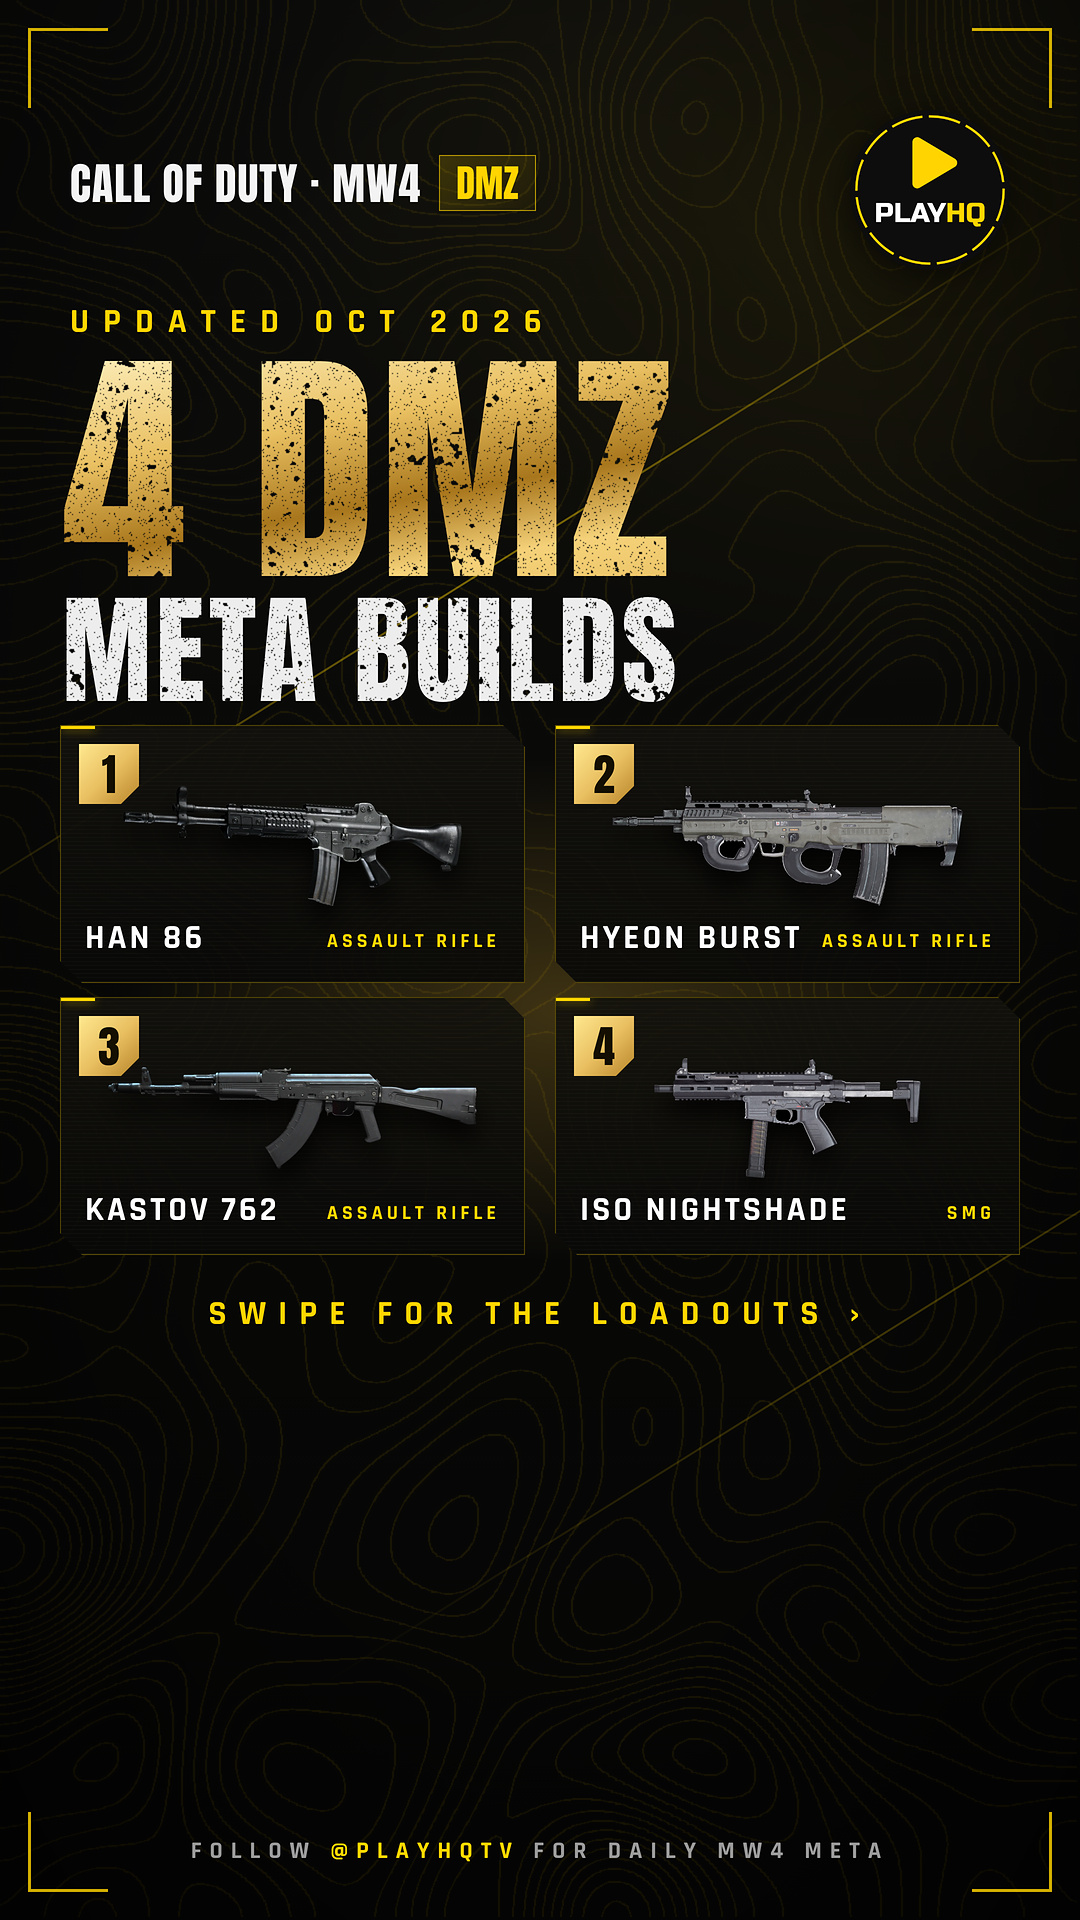
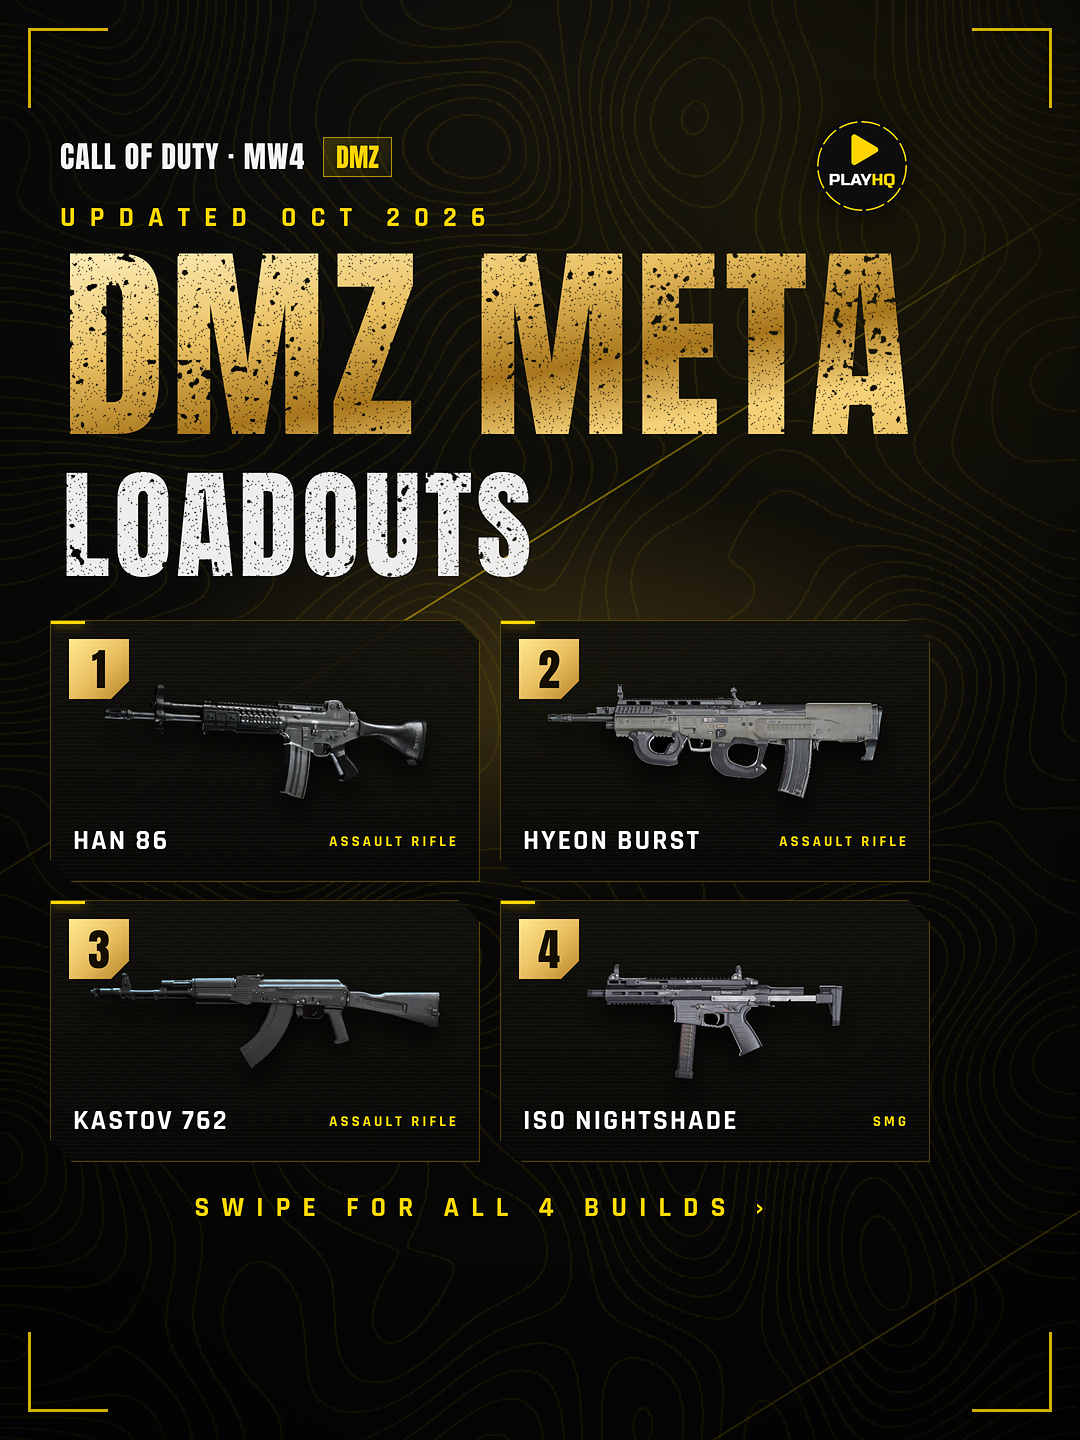
Carousel template: 3:4 (1080x1440) TikTok-safe layout + UI overlay QA; reworded DMZ carousel
Claude-Session: https://claude.ai/code/session_01LXyKCaXtAVVtiefghrjJL7

diff --git a/templates/meta-carousel/render.py b/templates/meta-carousel/render.py
@@ -1,6 +1,6 @@
 """PlayHQ META carousel generator (design v3 "digital HUD", approved 29.10.2026).
 Usage: python3 render.py data/<file>.json [out_dir]
-Slides: cover, one per weapon, cta. 1080x1920 JPG. All components are free (OFL fonts, own textures/icons, ISNet cutouts)."""
+Slides: cover, one per weapon, cta. 1080x1440 (3:4) JPG. All components are free (OFL fonts, own textures/icons, ISNet cutouts)."""
 import json, os, sys, html, threading, functools, http.server, socketserver
 
 HERE = os.path.dirname(os.path.abspath(__file__))
@@ -13,16 +13,16 @@ CSS = """
 @font-face{font-family:Raj;src:url(/assets/fonts/Rajdhani-Medium.ttf);font-weight:500}
 *{margin:0;padding:0;box-sizing:border-box}
 :root{--y:#ffd400;--g1:#fff3c4;--g2:#e9c062;--g3:#a8761c}
-body{width:1080px;height:1920px;overflow:hidden;background:#070707;font-family:Raj;color:#fff;position:relative}
-.bg{position:absolute;inset:0;background:radial-gradient(ellipse 620px 360px at 560px 1010px,rgba(255,200,60,.22),transparent 70%),radial-gradient(ellipse 900px 700px at 900px 200px,rgba(255,212,0,.07),transparent 70%),linear-gradient(180deg,#0d0d0c 0%,#080807 55%,#050505 100%)}
+body{width:1080px;height:1440px;overflow:hidden;background:#070707;font-family:Raj;color:#fff;position:relative}
+.bg{position:absolute;inset:0;background:radial-gradient(ellipse 620px 300px at 560px 690px,rgba(255,200,60,.22),transparent 70%),radial-gradient(ellipse 900px 700px at 900px 200px,rgba(255,212,0,.07),transparent 70%),linear-gradient(180deg,#0d0d0c 0%,#080807 55%,#050505 100%)}
 .topo{position:absolute;inset:0;background:url(/assets/topo.png)}
 .streak{position:absolute;width:1600px;height:2px;background:linear-gradient(90deg,transparent,rgba(255,212,0,.45),transparent);transform:rotate(-32deg)}
 .vign{position:absolute;inset:0;background:radial-gradient(ellipse at 50% 45%,transparent 50%,rgba(0,0,0,.6) 100%)}
 .corner{position:absolute;width:80px;height:80px;border-color:rgba(255,212,0,.8);border-style:solid}
-.top{position:absolute;left:70px;top:150px;display:flex;align-items:center;gap:18px}
-.cod{font-family:Anton;font-size:44px;letter-spacing:1px;color:#f3f3f3}
-.dmz{font-family:Anton;font-size:38px;color:var(--y);padding:0 16px;line-height:54px;border:1px solid rgba(255,212,0,.6);background:linear-gradient(135deg,rgba(255,212,0,.18),rgba(255,212,0,.04))}
-.logo{position:absolute;right:70px;top:110px;width:160px;filter:drop-shadow(0 6px 18px rgba(0,0,0,.6))}
+.top{position:absolute;left:60px;top:134px;display:flex;align-items:center;gap:18px}
+.cod{font-family:Anton;font-size:30px;letter-spacing:1px;color:#f3f3f3}
+.dmz{font-family:Anton;font-size:26px;color:var(--y);padding:0 12px;line-height:38px;border:1px solid rgba(255,212,0,.6);background:linear-gradient(135deg,rgba(255,212,0,.18),rgba(255,212,0,.04))}
+.logo{position:absolute;right:170px;top:118px;width:96px;filter:drop-shadow(0 6px 18px rgba(0,0,0,.6))}
 .gr{display:inline-block;-webkit-mask-image:url(/assets/grunge.png);-webkit-mask-size:1400px 700px}
 .w{color:#ededed}
 .gold{background:linear-gradient(170deg,var(--g1) 0%,var(--g2) 35%,var(--g3) 60%,#f5d27a 80%,var(--g2) 100%);-webkit-background-clip:text;color:transparent;-webkit-mask-position:400px 120px}
@@ -30,50 +30,50 @@ body{width:1080px;height:1920px;overflow:hidden;background:#070707;font-family:R
 .hud{background:linear-gradient(180deg,rgba(18,17,12,.92),rgba(8,8,7,.92));border:1px solid rgba(255,212,0,.28);position:relative;clip-path:polygon(0 0,calc(100% - 22px) 0,100% 22px,100% 100%,22px 100%,0 calc(100% - 22px))}
 .hud::before{content:"";position:absolute;inset:0;background:repeating-linear-gradient(0deg,rgba(255,255,255,.025) 0 1px,transparent 1px 4px);pointer-events:none}
 .hud::after{content:"";position:absolute;left:0;top:0;width:34px;height:3px;background:var(--y);box-shadow:0 0 10px rgba(255,212,0,.7)}
-.foot{position:absolute;left:0;right:0;top:1836px;text-align:center;font-weight:700;font-size:24px;letter-spacing:8px;color:#9a9a9a}
+.foot{position:absolute;left:0;right:0;top:1395px;text-align:center;font-weight:700;font-size:24px;letter-spacing:8px;color:#9a9a9a}
 .foot b{color:var(--y)}
 .sub{position:absolute;left:70px;font-weight:700;font-size:54px;letter-spacing:15px;color:#f2f2f2;white-space:nowrap}
 .cls{position:absolute;left:70px;font-size:38px;font-weight:600;letter-spacing:2px;display:flex;align-items:center;gap:14px;color:#cfcfcf}
 .cls i{display:block;width:44px;height:5px;background:var(--y)}
 .cls b{color:var(--y);font-weight:700}
-.rank{position:absolute;right:70px;top:640px;text-align:right}
+.rank{position:absolute;right:150px;top:400px;text-align:right}
 .rank small{display:block;font-size:24px;letter-spacing:6px;color:#bdbdbd;font-weight:700}
-.rank strong{font-family:Anton;font-size:96px;line-height:1;background:linear-gradient(170deg,var(--g1),var(--g2) 45%,var(--g3));-webkit-background-clip:text;color:transparent}
+.rank strong{font-family:Anton;font-size:70px;line-height:1;background:linear-gradient(170deg,var(--g1),var(--g2) 45%,var(--g3));-webkit-background-clip:text;color:transparent}
 .gunbox{position:absolute;left:30px;width:1020px;display:grid;place-items:center}
 .gun{max-width:1000px;transform:rotate(-4deg);filter:drop-shadow(0 40px 30px rgba(0,0,0,.85)) drop-shadow(0 0 2px rgba(255,220,140,.35))}
 .floor{position:absolute;left:190px;width:700px;height:40px;border-radius:50%;background:radial-gradient(ellipse,rgba(255,212,0,.35),transparent 70%);filter:blur(6px)}
 .line{position:absolute;left:150px;width:780px;height:2px;background:linear-gradient(90deg,transparent,rgba(255,212,0,.7),transparent)}
-.hdr{position:absolute;left:60px;right:60px;top:1288px;height:84px;display:flex;align-items:center;padding:0 30px}
-.hdr span{font-weight:700;font-size:36px;letter-spacing:12px}
+.hdr{position:absolute;left:50px;right:145px;top:862px;height:64px;display:flex;align-items:center;padding:0 30px}
+.hdr span{font-weight:700;font-size:30px;letter-spacing:10px}
 .ticks{margin-left:auto;display:flex;align-items:center;gap:18px}
 .ticks i{display:block;width:120px;height:10px;background:repeating-linear-gradient(90deg,rgba(255,212,0,.6) 0 2px,transparent 2px 10px)}
 .ticks em{font-style:normal;font-size:23px;letter-spacing:6px;color:var(--y);font-weight:700}
-.grid{position:absolute;left:60px;right:60px;top:1392px;display:grid;grid-template-columns:1fr 1fr;gap:16px}
-.t{height:124px;display:flex;align-items:center;gap:18px;padding:0 16px}
-.ic{width:156px;height:94px;flex:none;position:relative;display:grid;place-items:center;background:linear-gradient(rgba(255,212,0,.06) 1px,transparent 1px) 0 0/12px 12px,linear-gradient(90deg,rgba(255,212,0,.06) 1px,transparent 1px) 0 0/12px 12px,radial-gradient(ellipse at 50% 50%,rgba(255,212,0,.10),rgba(0,0,0,0) 70%);border:1px solid rgba(255,212,0,.18)}
+.grid{position:absolute;left:50px;right:145px;top:938px;display:grid;grid-template-columns:1fr 1fr;gap:12px}
+.t{height:100px;display:flex;align-items:center;gap:14px;padding:0 12px}
+.ic{width:118px;height:74px;flex:none;position:relative;display:grid;place-items:center;background:linear-gradient(rgba(255,212,0,.06) 1px,transparent 1px) 0 0/12px 12px,linear-gradient(90deg,rgba(255,212,0,.06) 1px,transparent 1px) 0 0/12px 12px,radial-gradient(ellipse at 50% 50%,rgba(255,212,0,.10),rgba(0,0,0,0) 70%);border:1px solid rgba(255,212,0,.18)}
 .ic::before,.ic::after{content:"";position:absolute;width:12px;height:12px;border-color:var(--y);border-style:solid}
 .ic::before{left:-1px;top:-1px;border-width:2px 0 0 2px}.ic::after{right:-1px;bottom:-1px;border-width:0 2px 2px 0}
-.ic img{width:146px}
-.num{position:absolute;right:16px;top:10px;font-size:18px;font-weight:700;letter-spacing:3px;color:rgba(255,212,0,.45)}
-.tx b{display:block;white-space:nowrap;font-weight:700;font-size:32px;color:#fff;letter-spacing:1px;line-height:1.05}
-.tx small{display:block;font-weight:700;font-size:21px;color:var(--y);letter-spacing:5px;margin-top:6px}
+.ic img{width:110px}
+.num{position:absolute;right:14px;top:8px;font-size:15px;font-weight:700;letter-spacing:3px;color:rgba(255,212,0,.45)}
+.tx b{display:block;white-space:nowrap;font-weight:700;font-size:27px;color:#fff;letter-spacing:1px;line-height:1.05}
+.tx small{display:block;font-weight:700;font-size:17px;color:var(--y);letter-spacing:4px;margin-top:5px}
 .save{background:linear-gradient(135deg,#ffe88f,#e9c062 50%,#b8862a);border:none}
 .save::after{background:#111;box-shadow:none}
 .save .tx{padding-left:14px}
-.save .tx b{color:#140f00;font-family:Anton;font-size:46px;font-weight:400;letter-spacing:1px}
-.save .tx small{color:#3a2a00;letter-spacing:5px;font-size:21px;margin:0 0 2px}
+.save .tx b{color:#140f00;font-family:Anton;font-size:38px;font-weight:400;letter-spacing:1px}
+.save .tx small{color:#3a2a00;letter-spacing:4px;font-size:17px;margin:0 0 2px}
 .kicker{position:absolute;left:70px;font-weight:700;font-size:34px;letter-spacing:14px;color:var(--y)}
-.card{position:absolute;width:465px;height:258px}
+.card{position:absolute;width:430px;height:262px}
 .card .badge{position:absolute;left:18px;top:18px;font-family:Anton;font-size:44px;line-height:60px;width:60px;text-align:center;color:#140f00;background:linear-gradient(135deg,#ffe88f,#e9c062 50%,#b8862a);clip-path:polygon(0 0,100% 0,100% 70%,70% 100%,0 100%)}
 .card .cimg{position:absolute;left:20px;right:20px;top:56px;height:128px;display:grid;place-items:center}
-.card .cimg img{max-width:370px;max-height:120px;filter:drop-shadow(0 16px 12px rgba(0,0,0,.8))}
-.card .nm{position:absolute;left:24px;bottom:22px;font-weight:700;font-size:34px;letter-spacing:3px}
-.card .cl{position:absolute;right:24px;bottom:28px;font-weight:700;font-size:20px;letter-spacing:4px;color:var(--y)}
+.card .cimg img{max-width:350px;max-height:115px;filter:drop-shadow(0 16px 12px rgba(0,0,0,.8))}
+.card .nm{position:absolute;left:22px;bottom:22px;font-weight:700;font-size:28px;letter-spacing:2px}
+.card .cl{position:absolute;right:20px;bottom:30px;font-weight:700;font-size:15px;letter-spacing:3px;color:var(--y)}
 .swipe{position:absolute;left:0;right:0;text-align:center;font-weight:700;font-size:34px;letter-spacing:12px;color:var(--y)}
-.row{position:absolute;left:60px;right:60px;height:118px;display:flex;align-items:center;gap:24px;padding:0 26px}
+.row{position:absolute;left:50px;right:150px;height:96px;display:flex;align-items:center;gap:24px;padding:0 26px}
 .row .n{font-family:Anton;font-size:56px;width:70px;text-align:center;background:linear-gradient(170deg,var(--g1),var(--g2) 45%,var(--g3));-webkit-background-clip:text;color:transparent}
-.row img{width:230px;max-height:96px;object-fit:contain;filter:drop-shadow(0 10px 8px rgba(0,0,0,.8))}
-.row b{font-weight:700;font-size:40px;letter-spacing:3px}
+.row img{width:180px;max-height:76px;object-fit:contain;filter:drop-shadow(0 10px 8px rgba(0,0,0,.8))}
+.row b{font-weight:700;font-size:34px;letter-spacing:3px}
 .row small{margin-left:auto;font-weight:700;font-size:22px;letter-spacing:5px;color:var(--y)}
 """
 
@@ -108,53 +108,53 @@ def title_html(white, gold, top, size=250, max_w=950):
 def weapon_slide(w, d):
     tiles = ''.join(
         f'<div class="t hud"><span class="num">{i + 1:02d}</span><div class="ic"><img src="/assets/icons/{a["type"]}.svg"></div>'
-        + (f'<div class="tx"><b class="shrink" data-size="32" data-max="262">{E(a["name"])}</b>' if len(a["name"]) <= 16 else f'<div class="tx"><b style="font-size:27px;white-space:normal;max-width:236px;line-height:1.08">{E(a["name"])}</b>')
+        + (f'<div class="tx"><b class="shrink" data-size="27" data-max="226">{E(a["name"])}</b>' if len(a["name"]) <= 16 else f'<div class="tx"><b style="font-size:23px;white-space:normal;max-width:206px;line-height:1.08">{E(a["name"])}</b>')
         + f'<small>{E(a["label"])}</small></div></div>'
         for i, a in enumerate(w['attachments'][:5]))
     if w.get('apex'):
         tiles += (f'<div class="t hud save"><div class="ic" style="background:rgba(0,0,0,.18);border-color:rgba(0,0,0,.35)"><img src="/assets/icons/apex.svg" style="filter:brightness(.25)"></div>'
-                  f'<div class="tx" style="padding-left:0"><small>APEX</small><b class="shrink" data-size="44" data-max="250">{E(w["apex"])}</b></div></div>')
+                  f'<div class="tx" style="padding-left:0"><small>APEX</small><b class="shrink" data-size="36" data-max="220">{E(w["apex"])}</b></div></div>')
     else:
         tiles += '<div class="t hud save"><div class="tx"><small>DON\'T LOSE IT</small><b>SAVE THIS BUILD</b></div></div>'
     br = w.get('brightness', 1.18)
-    body = (title_html(w['title_white'], w['title_gold'], 300)
-            + f'<div class="fit sub" style="top:635px;left:70px;font-family:Raj;letter-spacing:15px" data-size="54" data-max="700">{E(w.get("tagline", "EXTRACTION READY"))}</div>'
-            + f'<div class="cls" style="top:712px"><i></i>{E(w["class"])} — <b>{E(w.get("class_note", "Meta Loadout"))}</b></div>'
+    body = (title_html(w['title_white'], w['title_gold'], 205, size=180, max_w=850)
+            + f'<div class="fit sub" style="top:415px;left:60px;font-family:Raj;letter-spacing:11px" data-size="40" data-max="700">{E(w.get("tagline", "EXTRACTION READY"))}</div>'
+            + f'<div class="cls" style="top:468px;left:60px;font-size:30px"><i></i>{E(w["class"])} — <b>{E(w.get("class_note", "Meta Loadout"))}</b></div>'
             + f'<div class="rank"><small>{E(d.get("rank_label", "META RANK"))}</small><strong>#{w["rank"]}</strong></div>'
-            + '<div class="floor" style="top:1205px"></div><div class="line" style="top:1222px"></div>'
-            + f'<div class="gunbox" style="top:800px;height:420px"><img class="gun" style="max-height:400px;filter:drop-shadow(0 40px 30px rgba(0,0,0,.85)) drop-shadow(0 0 2px rgba(255,220,140,.35)) brightness({br}) contrast(1.08)" src="/weapons/{w["image"]}"></div>'
-            + f'<div class="hdr hud"><span>ATTACHMENTS</span><div class="ticks"><i style="width:60px"></i><div style="text-align:right;line-height:1.1"><small style="display:block;font-size:17px;letter-spacing:5px;color:#bdbdbd;font-weight:700">BUILD CODE</small><em>{E(w.get("build_code", ""))}</em></div></div></div>'
+            + '<div class="floor" style="top:826px"></div><div class="line" style="top:843px"></div>'
+            + f'<div class="gunbox" style="top:520px;height:320px;width:900px"><img class="gun" style="max-height:290px;max-width:860px;filter:drop-shadow(0 40px 30px rgba(0,0,0,.85)) drop-shadow(0 0 2px rgba(255,220,140,.35)) brightness({br}) contrast(1.08)" src="/weapons/{w["image"]}"></div>'
+            + f'<div class="hdr hud"><span>ATTACHMENTS</span><div class="ticks"><i style="width:60px"></i><div style="text-align:right;line-height:1.1"><small style="display:block;font-size:14px;letter-spacing:4px;color:#bdbdbd;font-weight:700">BUILD CODE</small><em style="font-size:19px;letter-spacing:4px">{E(w.get("build_code", ""))}</em></div></div></div>'
             + f'<div class="grid">{tiles}</div>')
-    return page(body, d)
+    return page(body, {**d, 'footer': ''})
 
 
 def cover_slide(d):
     c = d['cover']
-    pos = [(60, 725), (555, 725), (60, 997), (555, 997)]
+    pos = [(50, 620), (500, 620), (50, 900), (500, 900)]
     cards = ''.join(
         f'<div class="card hud" style="left:{x}px;top:{y}px"><div class="badge">{w["rank"]}</div>'
         f'<div class="cimg"><img src="/weapons/{w["image"]}" style="filter:drop-shadow(0 16px 12px rgba(0,0,0,.8)) brightness({w.get("brightness", 1.18)})"></div>'
         f'<div class="nm">{E(w["short"])}</div><div class="cl">{E(w["class"].upper())}</div></div>'
         for (x, y), w in zip(pos, d['weapons']))
-    body = (f'<div class="kicker" style="top:300px">{E(c.get("kicker", "UPDATED"))}</div>'
-            + f'<div class="fit" style="top:345px" data-size="250" data-max="950"><span class="gr gold">{E(c["big"])}</span></div>'
-            + f'<div class="fit" style="top:590px" data-size="120" data-max="950"><span class="gr w">{E(c["small"])}</span></div>'
-            + cards + f'<div class="swipe" style="top:1292px">{E(c.get("swipe", "SWIPE FOR THE LOADOUTS ›"))}</div>')
-    return page(body, d)
+    body = (f'<div class="kicker" style="top:200px;left:60px;font-size:28px">{E(c.get("kicker", "UPDATED"))}</div>'
+            + f'<div class="fit" style="top:240px" data-size="210" data-max="860"><span class="gr gold">{E(c["big"])}</span></div>'
+            + f'<div class="fit" style="top:465px" data-size="120" data-max="860"><span class="gr w">{E(c["small"])}</span></div>'
+            + cards + f'<div class="swipe" style="top:1190px;font-size:28px;right:110px">{E(c.get("swipe", "SWIPE FOR THE LOADOUTS ›"))}</div>')
+    return page(body, {**d, 'footer': ''})
 
 
 def cta_slide(d):
     c = d['cta']
     rows = ''.join(
-        f'<div class="row hud" style="top:{860 + i * 134}px"><div class="n">{w["rank"]}</div><img src="/weapons/{w["image"]}" style="filter:drop-shadow(0 10px 8px rgba(0,0,0,.8)) brightness({w.get("brightness", 1.18)})">'
+        f'<div class="row hud" style="top:{575 + i * 110}px"><div class="n">{w["rank"]}</div><img src="/weapons/{w["image"]}" style="filter:drop-shadow(0 10px 8px rgba(0,0,0,.8)) brightness({w.get("brightness", 1.18)})">'
         f'<b>{E(w["short"])}</b><small>{E(w["class"].upper())}</small></div>' for i, w in enumerate(d['weapons']))
-    body = (f'<div class="fit" style="top:330px" data-size="180" data-max="950"><span class="gr w">{E(c["white"])}</span></div>'
-            + f'<div class="fit" style="top:530px" data-size="180" data-max="950"><span class="gr gold">{E(c["gold"])}</span></div>'
-            + f'<div class="kicker" style="top:760px;letter-spacing:10px;color:#d9d9d9">{E(c.get("sub", "DROP THE NUMBER IN THE COMMENTS"))}</div>'
+    body = (f'<div class="fit" style="top:205px" data-size="140" data-max="860"><span class="gr w">{E(c["white"])}</span></div>'
+            + f'<div class="fit" style="top:355px" data-size="140" data-max="860"><span class="gr gold">{E(c["gold"])}</span></div>'
+            + f'<div class="kicker" style="top:515px;left:60px;font-size:26px;letter-spacing:7px;color:#d9d9d9">{E(c.get("sub", "DROP THE NUMBER IN THE COMMENTS"))}</div>'
             + rows
-            + '<img src="/assets/logo.png" style="position:absolute;left:440px;top:1420px;width:200px;filter:drop-shadow(0 10px 24px rgba(0,0,0,.7))">'
-            + '<div style="position:absolute;left:0;right:0;top:1640px;text-align:center;font-family:Anton;font-size:84px;line-height:1;letter-spacing:3px">FOLLOW <span style="background:linear-gradient(170deg,var(--g1),var(--g2) 45%,var(--g3));-webkit-background-clip:text;color:transparent">@PLAYHQTV</span></div>'
-            + f'<div class="swipe" style="top:1745px;color:#cfcfcf;letter-spacing:10px;font-size:30px">{E(c.get("follow_sub", "FOR DAILY MW4 META"))}</div>')
+            + '<img src="/assets/logo.png" style="position:absolute;left:420px;top:1030px;width:120px;filter:drop-shadow(0 10px 24px rgba(0,0,0,.7))">'
+            + '<div style="position:absolute;left:0;right:0;top:1165px;text-align:center;font-family:Anton;font-size:66px;right:100px;line-height:1;letter-spacing:3px">FOLLOW <span style="background:linear-gradient(170deg,var(--g1),var(--g2) 45%,var(--g3));-webkit-background-clip:text;color:transparent">@PLAYHQTV</span></div>'
+            + f'<div class="swipe" style="top:1245px;color:#cfcfcf;letter-spacing:7px;font-size:24px;right:100px">{E(c.get("follow_sub", "FOR DAILY MW4 META"))}</div>')
     return page(body, {**d, 'footer': ''})
 
 
@@ -178,16 +178,16 @@ def main(data_path, out_dir=None):
     srv = serve(HERE)
     from playwright.sync_api import sync_playwright
     with sync_playwright() as p:
-        b = p.chromium.launch(); pg = b.new_page(viewport={'width': 1080, 'height': 1920}, device_scale_factor=2)
+        b = p.chromium.launch(); pg = b.new_page(viewport={'width': 1080, 'height': 1440}, device_scale_factor=2)
         for name, h in pages:
             open(os.path.join(tmp, name + '.html'), 'w').write(h)
             pg.goto(f'http://127.0.0.1:{srv.server_address[1]}/_build/{name}.html')
             pg.wait_for_selector('body[data-ready]'); pg.wait_for_timeout(300)
             raw = os.path.join(tmp, name + '@2x.png')
             pg.screenshot(path=raw, type='png')
-            # 2x supersampling -> 1080x1920, light sharpen, JPEG q95 without chroma subsampling (crisp coloured text)
+            # 2x supersampling -> 1080x1440, light sharpen, JPEG q95 without chroma subsampling (crisp coloured text)
             from PIL import Image, ImageFilter
-            im = Image.open(raw).convert('RGB').resize((1080, 1920), Image.LANCZOS)
+            im = Image.open(raw).convert('RGB').resize((1080, 1440), Image.LANCZOS)
             im = im.filter(ImageFilter.UnsharpMask(radius=0.8, percent=45, threshold=2))
             im.save(os.path.join(out_dir, name + '.jpg'), 'JPEG', quality=95, subsampling=0, optimize=True)
             print(os.path.join(out_dir, name + '.jpg'))

diff --git a/templates/meta-carousel/tiktok_overlay.py b/templates/meta-carousel/tiktok_overlay.py
@@ -1,0 +1,19 @@
+"""QA helper: draws the TikTok photo-mode UI (measured from a real screenshot, 29.10.2026) over 1080x1440 slides.
+Usage: python3 tiktok_overlay.py out/<name>  -> out/<name>/_qa/*.jpg + _qa/sheet.jpg"""
+import sys, os, glob
+from PIL import Image, ImageDraw
+d = sys.argv[1]; q = os.path.join(d, '_qa'); os.makedirs(q, exist_ok=True)
+ZONES = [  # (x0,y0,x1,y1) in 1080x1440 image coordinates
+    (20, 22, 1040, 114),     # search bar / top tabs
+    (942, 180, 1048, 240),   # "2 / 6" counter
+    (940, 1100, 1080, 1440), # avatar, like, comment, save buttons (right column)
+    (30, 1320, 800, 1440),   # first-comment bubble / caption
+]
+ims = []
+for f in sorted(glob.glob(os.path.join(d, '*.jpg'))):
+    im = Image.open(f).convert('RGB'); ov = Image.new('RGBA', im.size, (0, 0, 0, 0)); dr = ImageDraw.Draw(ov)
+    for z in ZONES: dr.rectangle(z, fill=(255, 0, 60, 90), outline=(255, 0, 60, 255), width=3)
+    out = Image.alpha_composite(im.convert('RGBA'), ov).convert('RGB'); out.save(os.path.join(q, os.path.basename(f))); ims.append(out)
+w = 360; sheet = Image.new('RGB', (w * len(ims), 480))
+for i, im in enumerate(ims): sheet.paste(im.resize((w, 480)), (i * w, 0))
+sheet.save(os.path.join(q, 'sheet.jpg')); print(os.path.join(q, 'sheet.jpg'))
